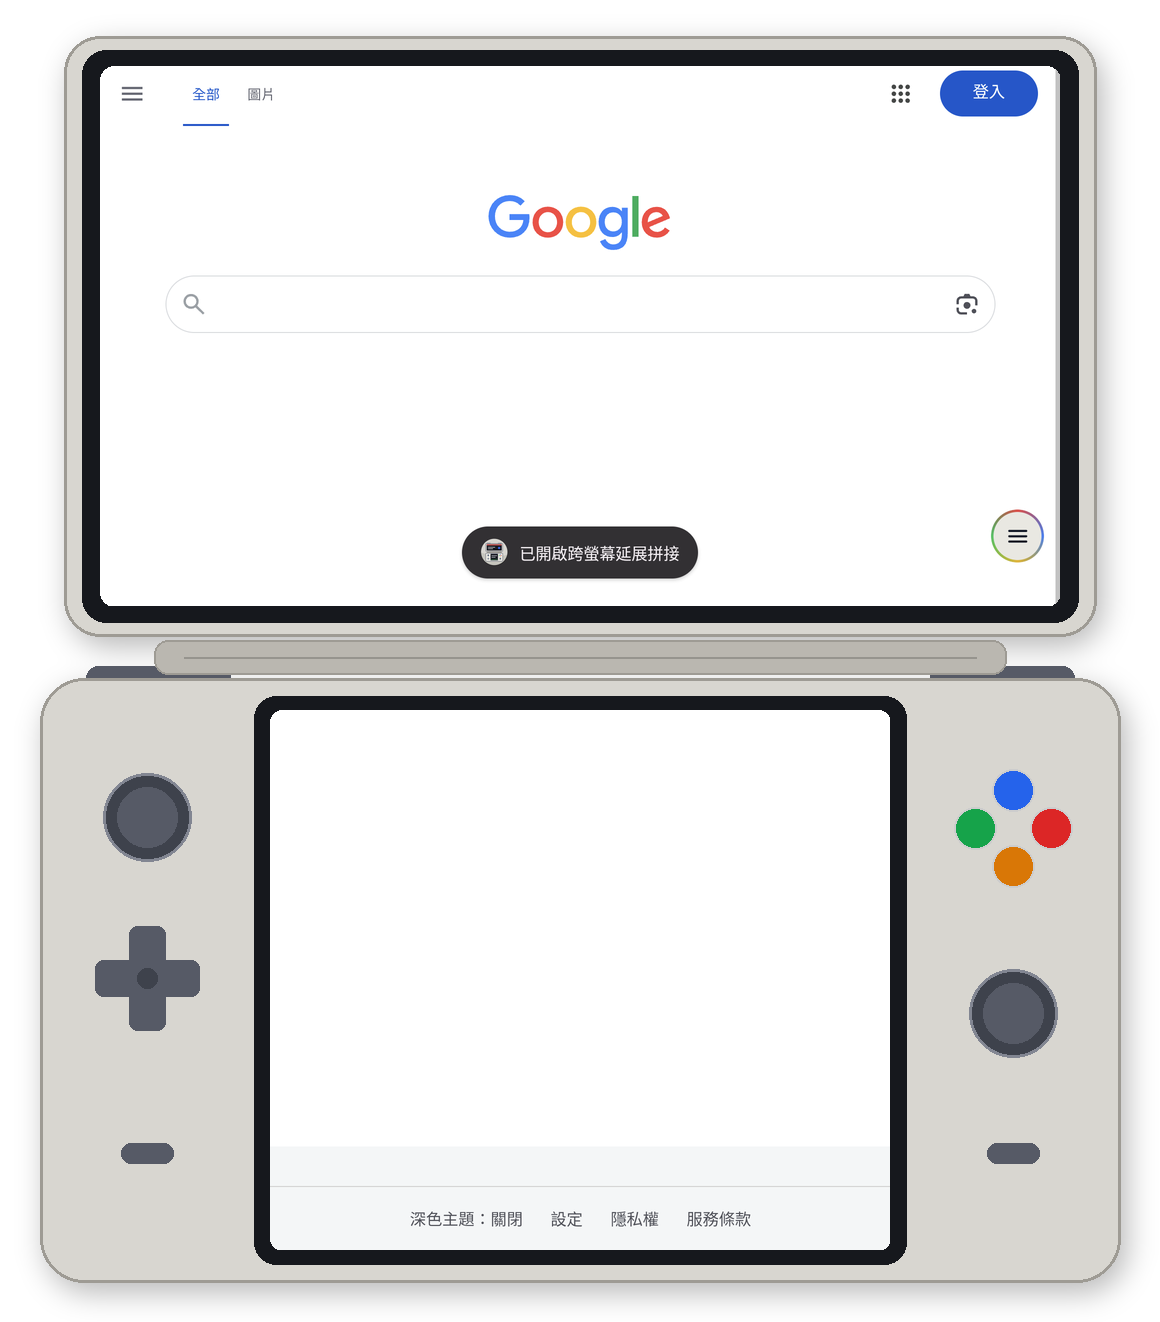
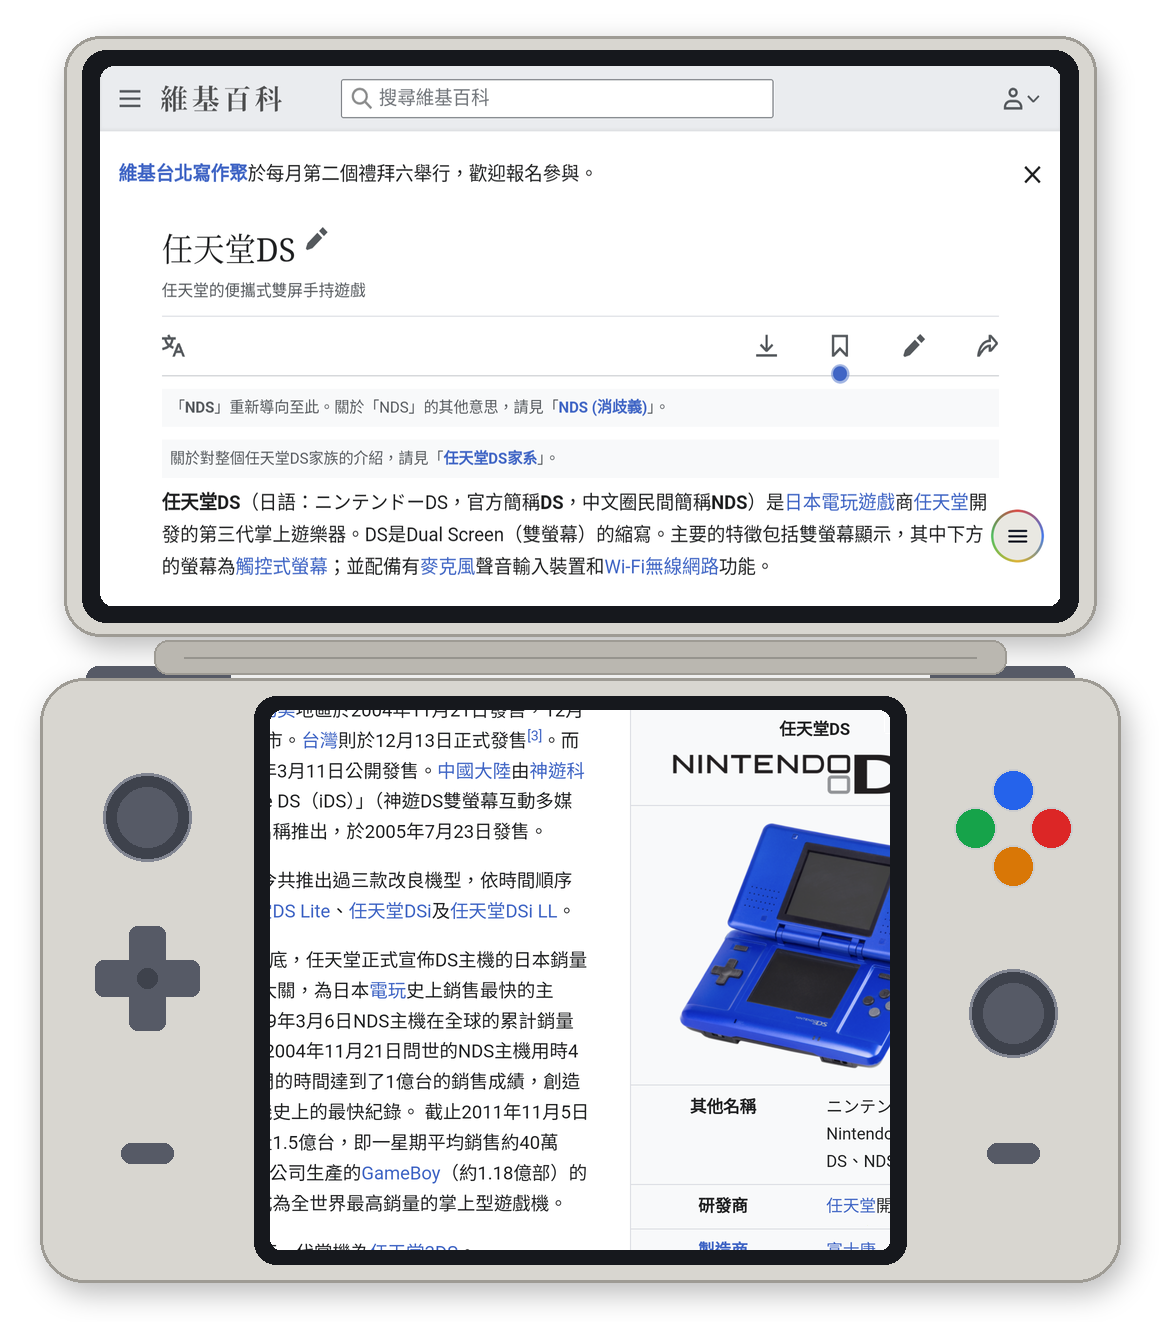
docs: update AYN Thor README screenshots with clean paired views

diff --git a/README.md b/README.md
@@ -28,7 +28,7 @@
   - 單螢幕截圖、拼接截圖與長截圖
   - 電腦版網頁切換、手把操作說明、設定、退出應用
 
-| 統一浮動選單與下螢幕觸控板 | 新手教學導覽 |
+| 統一浮動選單 | 新手教學導覽 |
 | :---: | :---: |
 | <img src="docs/screenshots/thor_menu_touchpad.png" alt="AYN Thor 統一浮動選單" width="420" /> | <img src="docs/screenshots/thor_tutorial.png" alt="AYN Thor 新手教學導覽" width="420" /> |
 
@@ -54,9 +54,9 @@
   - 單指移動鼠標／點擊、雙指捲動／縮放／回上一頁、三指重整
   - 拖曳左下角調整大小、拖曳右下角自由移動位置
 
-<p align="center">
-  <img src="docs/screenshots/thor_gamepad_guide.png" alt="AYN Thor 手把快捷操作說明與下螢幕觸控板" width="440" />
-</p>
+| 手把快捷操作說明（無觸控板） | 拼接模式＋下螢幕多指觸控板 |
+| :---: | :---: |
+| <img src="docs/screenshots/thor_gamepad_guide.png" alt="AYN Thor 手把快捷操作說明" width="420" /> | <img src="docs/screenshots/thor_touchpad.png" alt="AYN Thor 下螢幕多指觸控板" width="420" /> |
 
 ### 5. 隱私與網頁增強
 - 內建廣告網域阻擋（`AdBlocker`）與攔截計數
